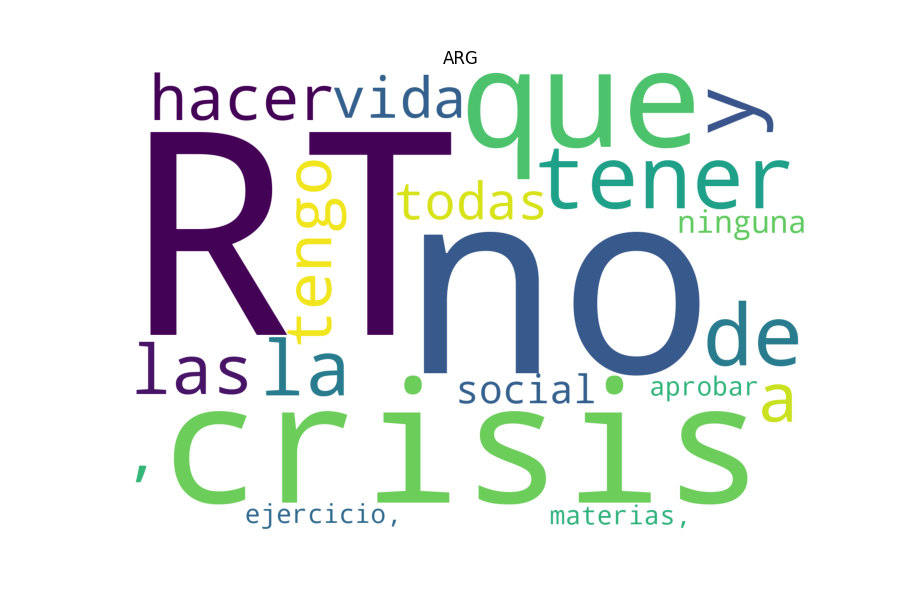
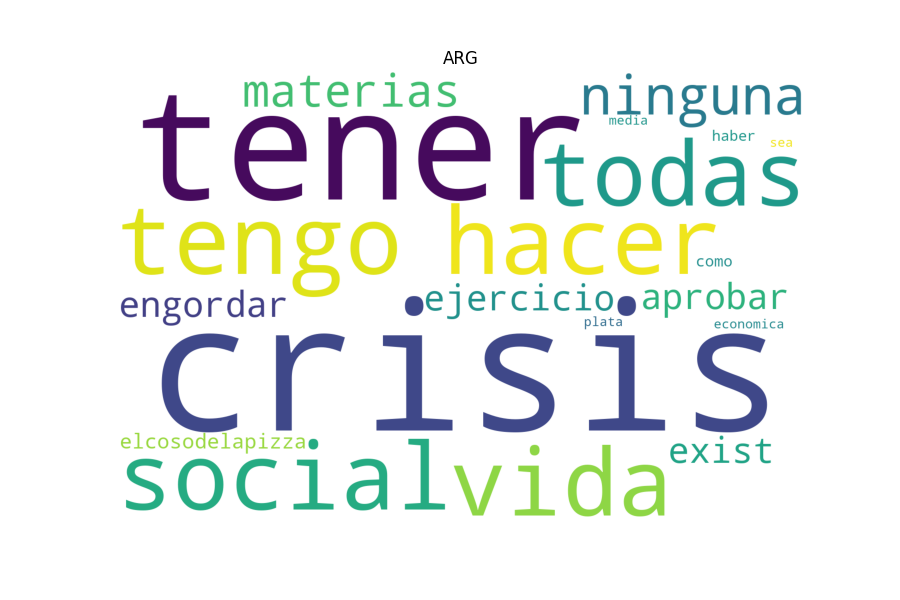
agregadas listas de palabras comunes para filtrar la nube, mejorado el aggregate del mongodb + capturas

Changed region(s): [[0.1244, 0.12, 0.9022, 0.9]]

diff --git a/ejercicio3.4/NubeDePalabras.py b/ejercicio3.4/NubeDePalabras.py
@@ -1,4 +1,3 @@
-import psycopg2
 from matplotlib import pyplot as plt
 from pymongo import MongoClient
 from wordcloud import WordCloud
@@ -16,38 +15,113 @@ client = MongoClient(MONGO_HOST, MONGO_PUERTO)
 database = client[MONGO_DB_NOMBRE]
 collection = database[MONGO_COLLECTION_NOMBRE]
 
+#constantes query
+QUERY_SUM = 1
+QUERY_SORT = -1
+QUERY_FINDALL_REGEX = r"[A-Za-z0-9áéíóúñ]{2,}"
+
+#listapalabrascomunes
+LISTA_PALABRAS_COMUNES_PRIMER_PAIS = ["rt", "no", "que", "de", "la", "las", "en", "el", "co", "es", "los", "con", "del", "al", "lo", "le", "si", "ya", "le", "me", "mi", "te", "yo", "se", "va", "https", "mas", "tan", "una"]
+LISTA_PALABRAS_COMUNES_SEGUNDO_PAIS = ["rt", "the", "to", "co", "is", "in", "that", "of", "and", "for", "can", "they", "aoc", "we", "on", "it", "this", "you", "are", "at", "he", "with", "not", "de", "la", "no", "as", "us", "she", "an", "my", "https"]
+LAS_20_MAS_USADAS = 20
+
 #elegir 2 paises:
 PAIS_1_COD = "ARG"
 PAIS_2_COD = "USA"
 
-LAS_20_MAS_USADAS = 20
+#diccionarios
 diccionarioPalabrasPrimerPais = {}
 diccionarioPalabrasSegundoPais = {}
 
 #query primer pais
+# Requires the PyMongo package.
+# https://api.mongodb.com/python/current
 consultaMapReducePrimerPais = collection.aggregate([
-    { "$match": {"user.country": {"$eq": PAIS_1_COD}}},
-    { "$project" : { "text" : { "$split": ["$text", " "] } } },
-    { "$unwind" : "$text" },
-    { "$group" : { "_id":  "$text" , "cantidad" : { "$sum" : 1 } } },
-    { "$sort" : { "cantidad" : -1 } }
+    {
+        '$match': {
+            'user.country': PAIS_1_COD
+        }
+    }, {
+        '$project': {
+            'cantidad': {
+                '$regexFindAll': {
+                    'input': {
+                        '$toLower': '$text'
+                    },
+                    'regex': QUERY_FINDALL_REGEX
+                }
+            }
+        }
+    }, {
+        '$unwind': {
+            'path': '$cantidad'
+        }
+    }, {
+        '$group': {
+            '_id': '$cantidad.match',
+            'cantidadTotal': {
+                '$sum': QUERY_SUM
+            }
+        }
+    }, {
+        '$sort': {
+            'cantidadTotal': QUERY_SORT
+        }
+    }
 ])
 
 #query segundo pais
+# Requires the PyMongo package.
+# https://api.mongodb.com/python/current
 consultaMapReduceSegundoPais = collection.aggregate([
-    { "$match": {"user.country": {"$eq": PAIS_2_COD}}},
-    { "$project" : { "text" : { "$split": ["$text", " "] } } },
-    { "$unwind" : "$text" },
-    { "$group" : { "_id":  "$text" , "cantidad" : { "$sum" : 1 } } },
-    { "$sort" : { "cantidad" : -1 } }
+    {
+        '$match': {
+            'user.country': PAIS_2_COD
+        }
+    }, {
+        '$project': {
+            'cantidad': {
+                '$regexFindAll': {
+                    'input': {
+                        '$toLower': '$text'
+                    },
+                    'regex': QUERY_FINDALL_REGEX
+                }
+            }
+        }
+    }, {
+        '$unwind': {
+            'path': '$cantidad'
+        }
+    }, {
+        '$group': {
+            '_id': '$cantidad.match',
+            'cantidadTotal': {
+                '$sum': QUERY_SUM
+            }
+        }
+    }, {
+        '$sort': {
+            'cantidadTotal': QUERY_SORT
+        }
+    }
 ])
 
-#palabras a lista
+#palabras a diccionarios
 for elemento in consultaMapReducePrimerPais:
-    diccionarioPalabrasPrimerPais[elemento["_id"]] = elemento["cantidad"]
+    diccionarioPalabrasPrimerPais[elemento["_id"]] = elemento["cantidadTotal"]
 
 for elemento in consultaMapReduceSegundoPais:
-    diccionarioPalabrasSegundoPais[elemento["_id"]] = elemento["cantidad"]
+    diccionarioPalabrasSegundoPais[elemento["_id"]] = elemento["cantidadTotal"]
+
+#filtrar palabras comunes
+for clave, valor in list(diccionarioPalabrasPrimerPais.items()):
+    if clave in LISTA_PALABRAS_COMUNES_PRIMER_PAIS:
+        diccionarioPalabrasPrimerPais.pop(clave, None)
+
+for clave, valor in list(diccionarioPalabrasSegundoPais.items()):
+    if clave in LISTA_PALABRAS_COMUNES_SEGUNDO_PAIS:
+        diccionarioPalabrasSegundoPais.pop(clave, None)
 
 #las 20 mas usadas
 lasMasUsadasDelPrimerPais = list(diccionarioPalabrasPrimerPais.items())[:LAS_20_MAS_USADAS]
